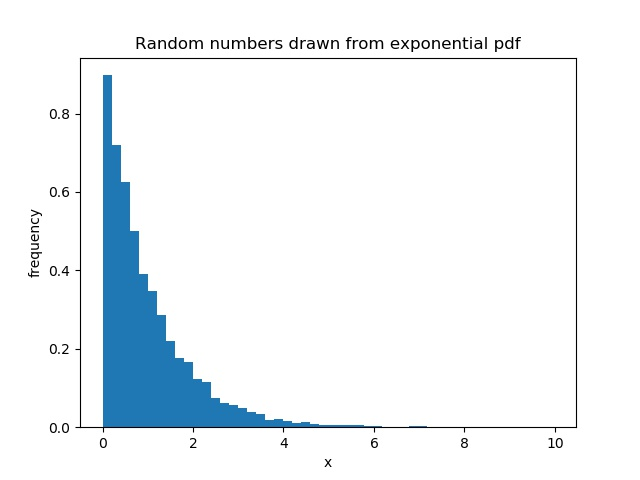
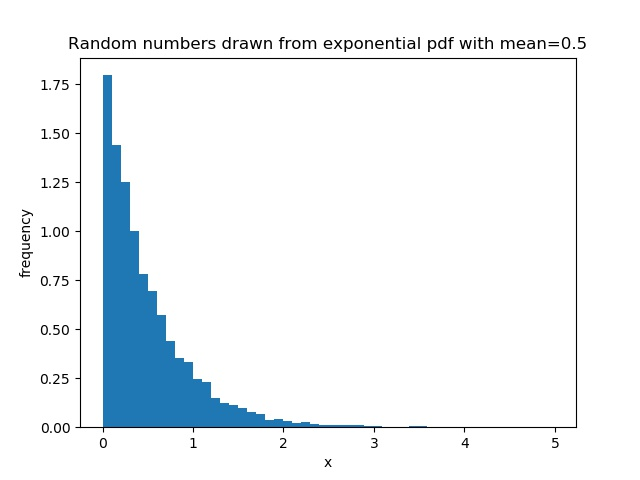
Add files via upload

diff --git a/histogram.py b/histogram.py
@@ -3,7 +3,7 @@ import numpy as np
 
 x=np.loadtxt("data.txt")
 
-plt.title("Random numbers drawn from exponential pdf")
+plt.title("Random numbers drawn from exponential pdf with mean=0.5")
 plt.xlabel("x")
 plt.ylabel("frequency")
 plt.hist(x,density=True,bins=50)
